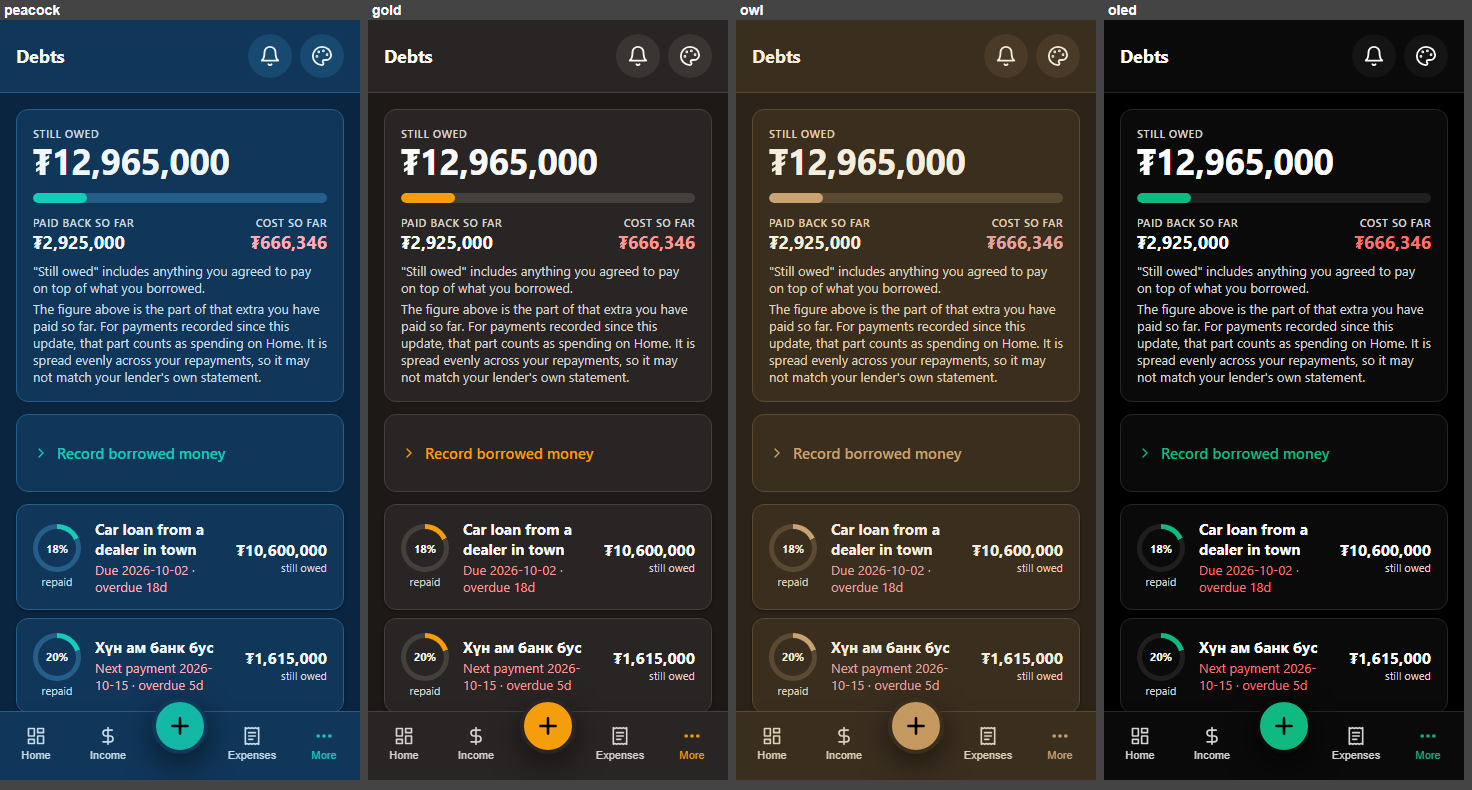
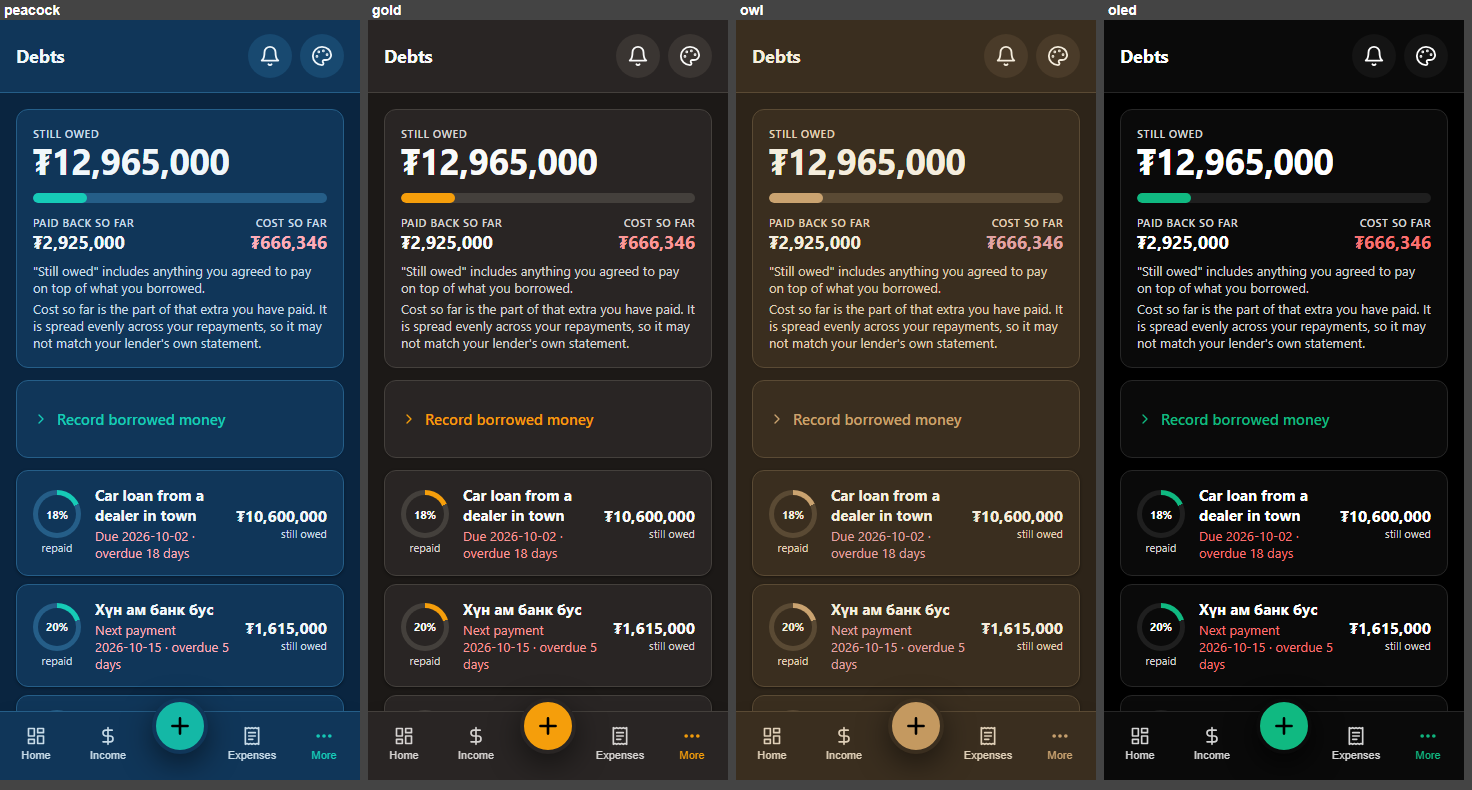
Handoff and sheets: the theme review's v38 gate is built; 16 sheets regenerated

diff --git a/reports/HANDOFF.md b/reports/HANDOFF.md
@@ -11,6 +11,24 @@ and the mistakes that cost the most time.
 
 ## Start here if you are picking this up
 
+### Theme review of the latest upgrades: v38 gate BUILT (2026-10-20)
+
+Ruling: `reports/chief-architect-themes-latest.md` (UI, code, EM reports and
+the request beside it, `-themes-latest`; 16 sheets in
+`reports/themes-debts-1a05/`, regenerated after the fixes). Steps 1-9 of its
+Development Order are merged on `live-v35` (branches `themes-01`..`themes-10`,
+one commit each, mutation-tested, `npm test` green, lint 17, contrast 16 x 38
+pairs 0 below): no due-date ask on a scheduled debt (its sentence, or a
+borrowed-date line with Edit); the detail figure leads; a part-paid row shows
+what is due; the summary names Cost so far without "this update"; the detail
+bar is the measured one; Overdue beats Next by specificity; `--progress`
+(flamingo #A04B0A, rose #9D1F7A, the C1 defaults); a filled overdue dot;
+the row date unbroken and days spelled out; a chevron on the loan row.
+Deviation: the summary cost sentence stays visible (standing "never behind a
+control" condition), shortened instead of folded. **Publish gate:** the owner
+looks at debts-2/detail-2 (flamingo, rose) and detail-3/4 (nord, owl) before
+v38 goes out. Next after v38: quick add steps 11-15, then guards 16-21.
+
 ### Debts 1a·05 / 1a·06 / one payment record: BUILT on live-v35, not published (2026-10-20)
 
 Ruling: `reports/chief-architect-debts-1a05.md` (24 steps), owner calls in
